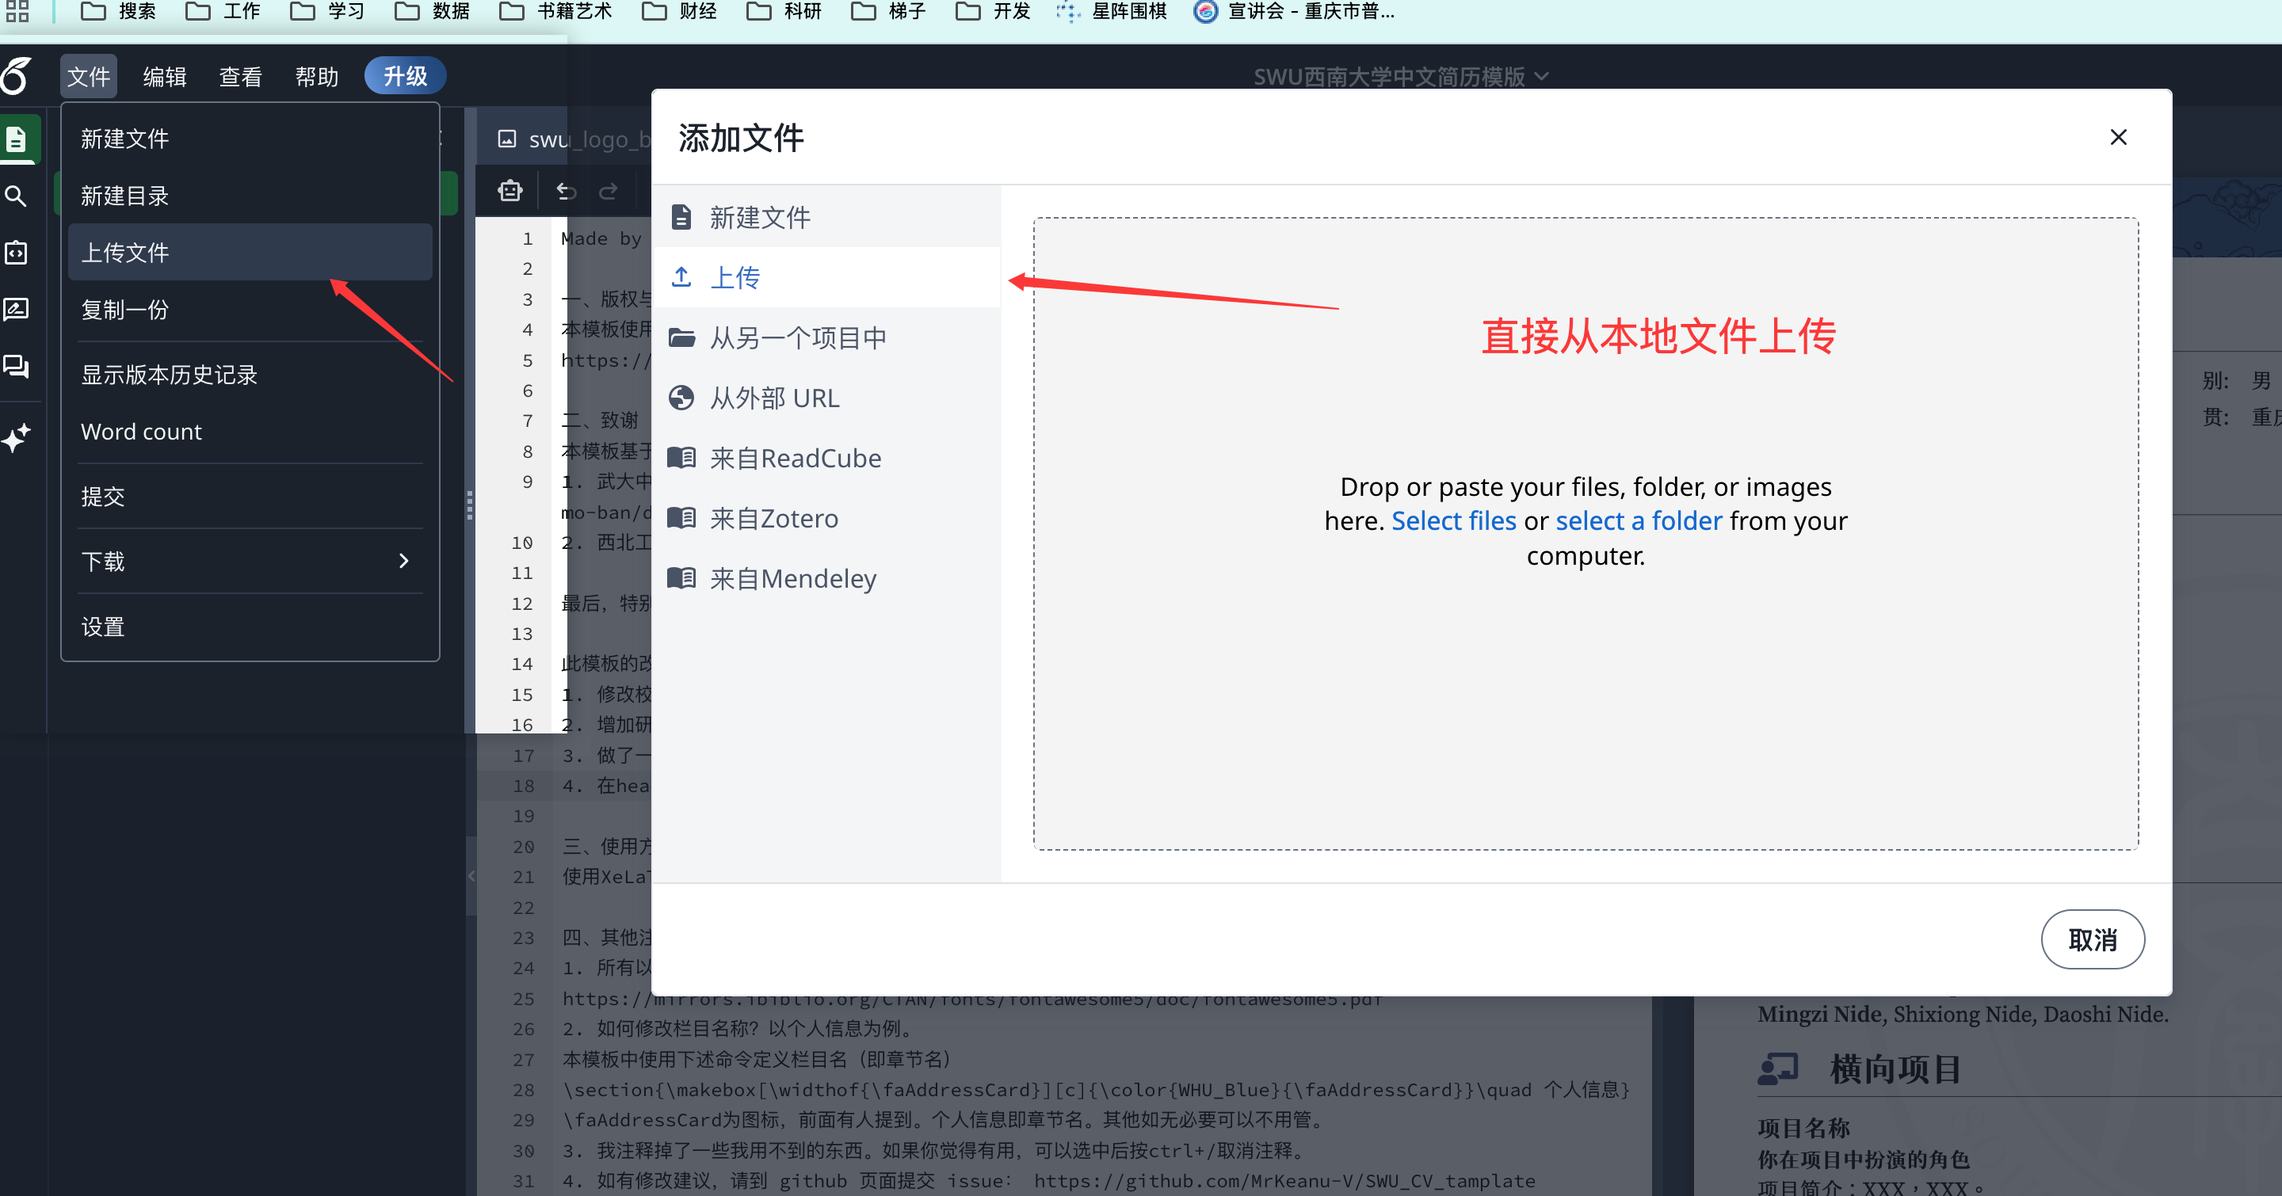
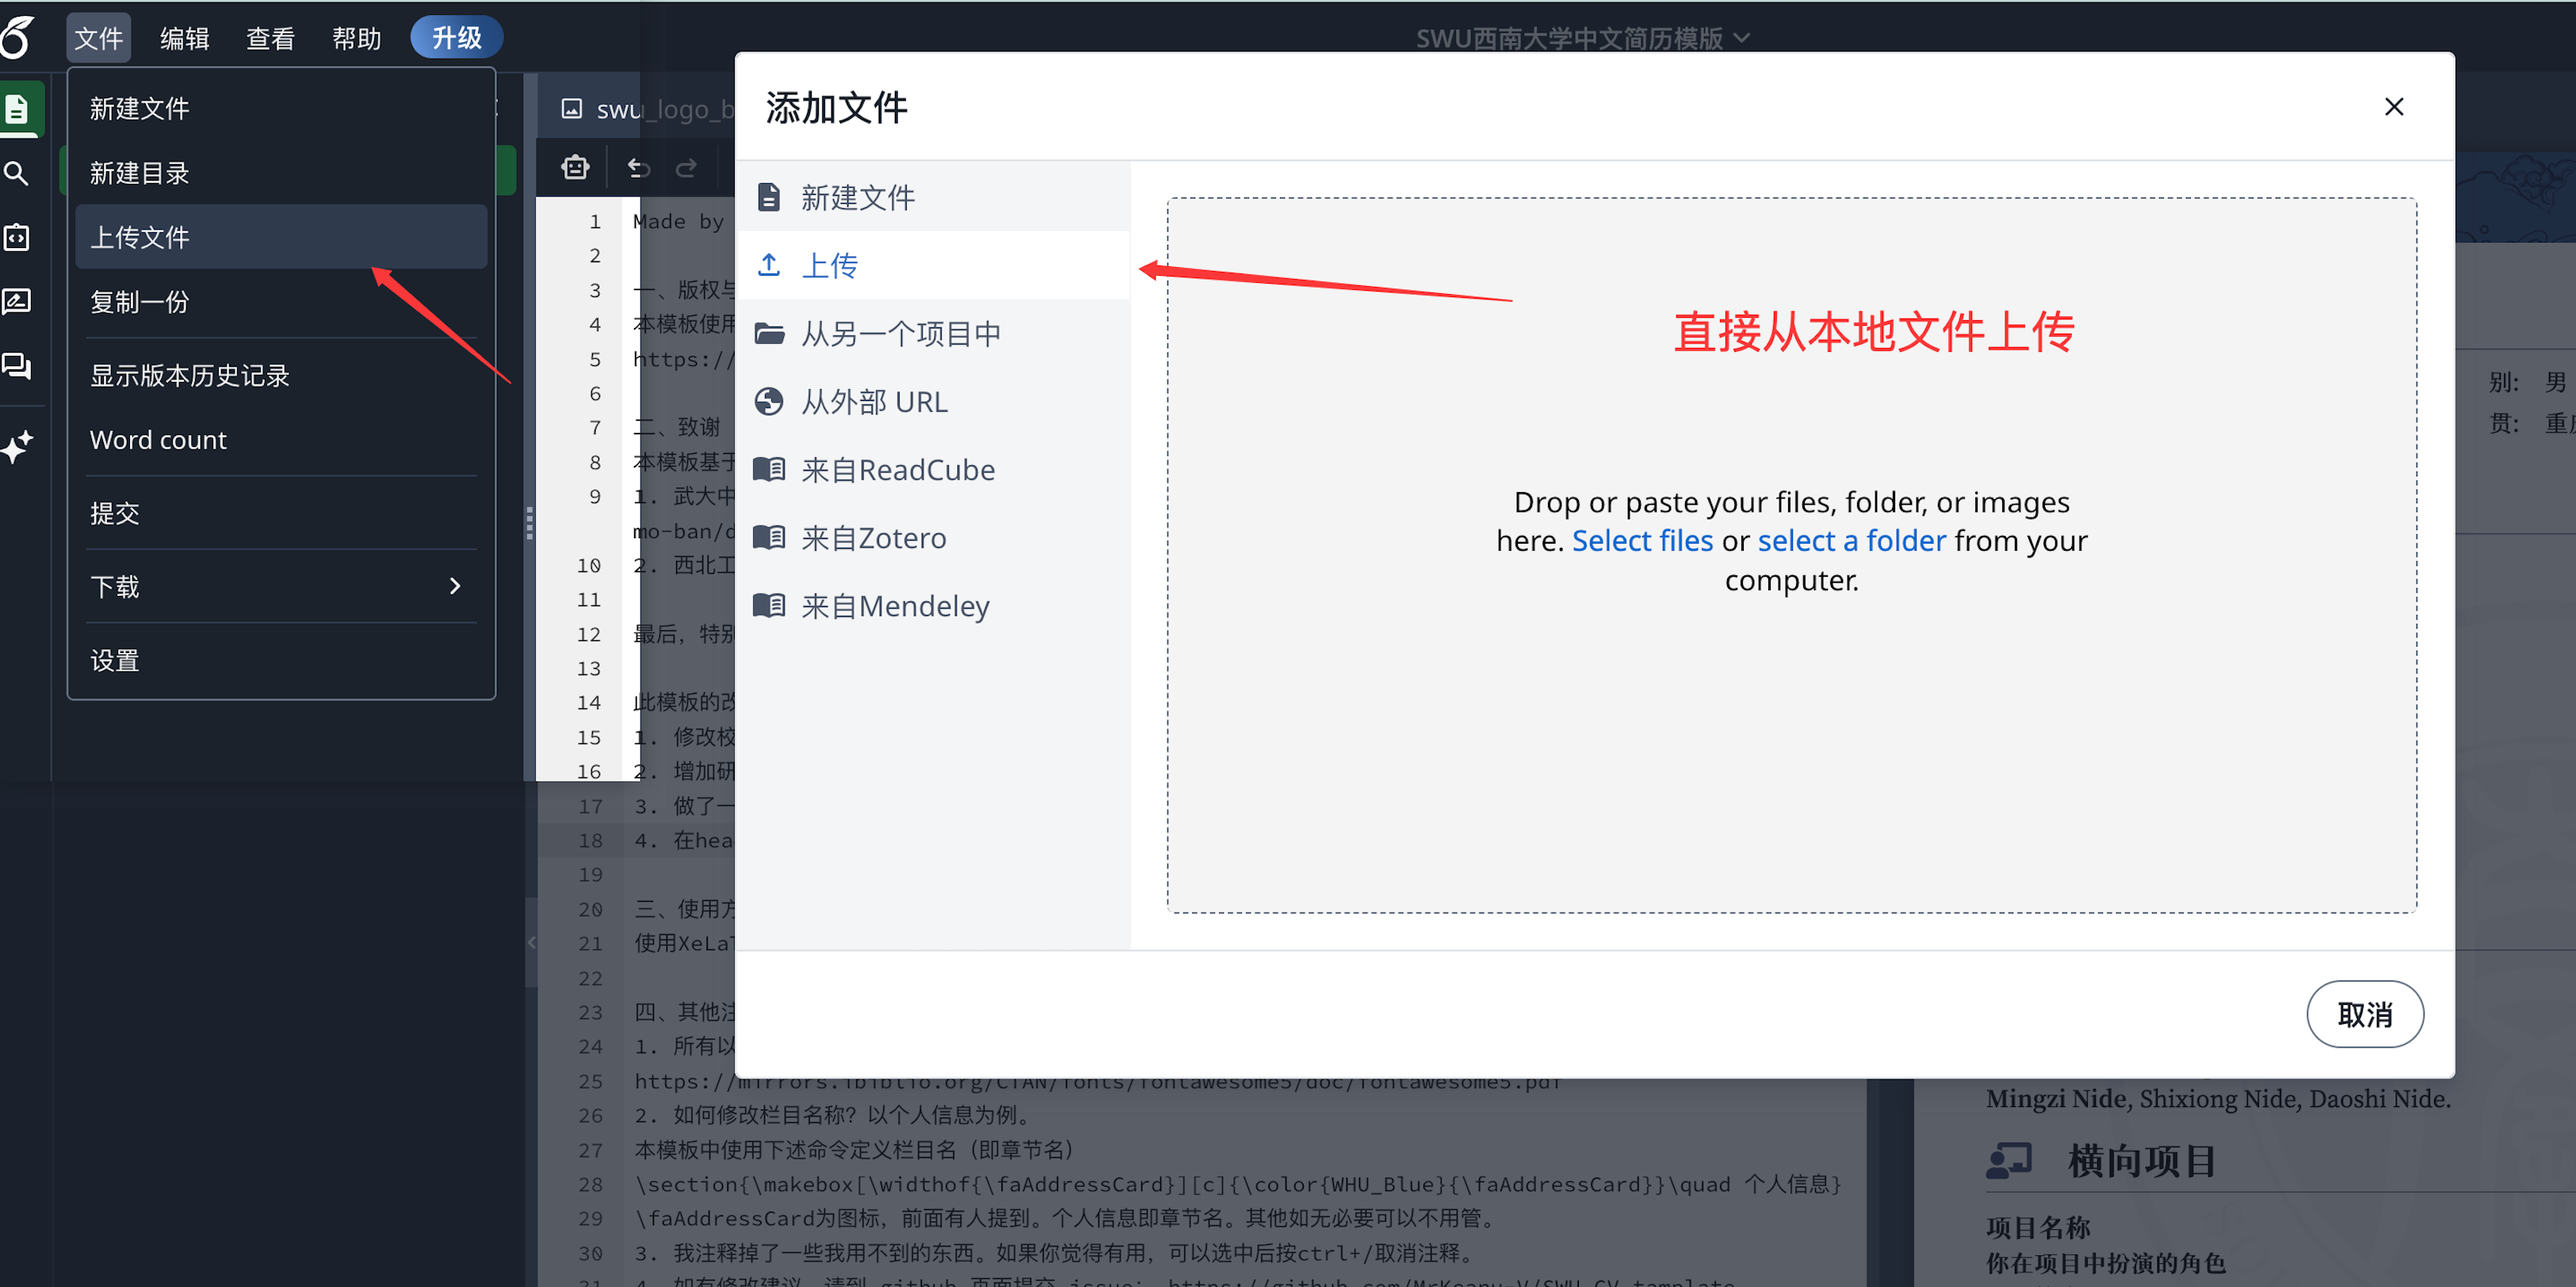
chore: fix spelling mistakes&img encode error

diff --git a/README.md b/README.md
@@ -5,7 +5,7 @@
 
 结合缙云山、嘉陵江、玉兰花等元素，结合SWU VIS设计了背景、页眉、页脚等素材，并提供深色浅色两套素材主题。
 
-**特别感谢Ela在素材设计和制作等方面提供的帮助🤟**
+**特别感谢Ela在素材设计和制作等方面的倾力相助 🥺Peace&Love🤟**
 
 ## 页面预览
 
